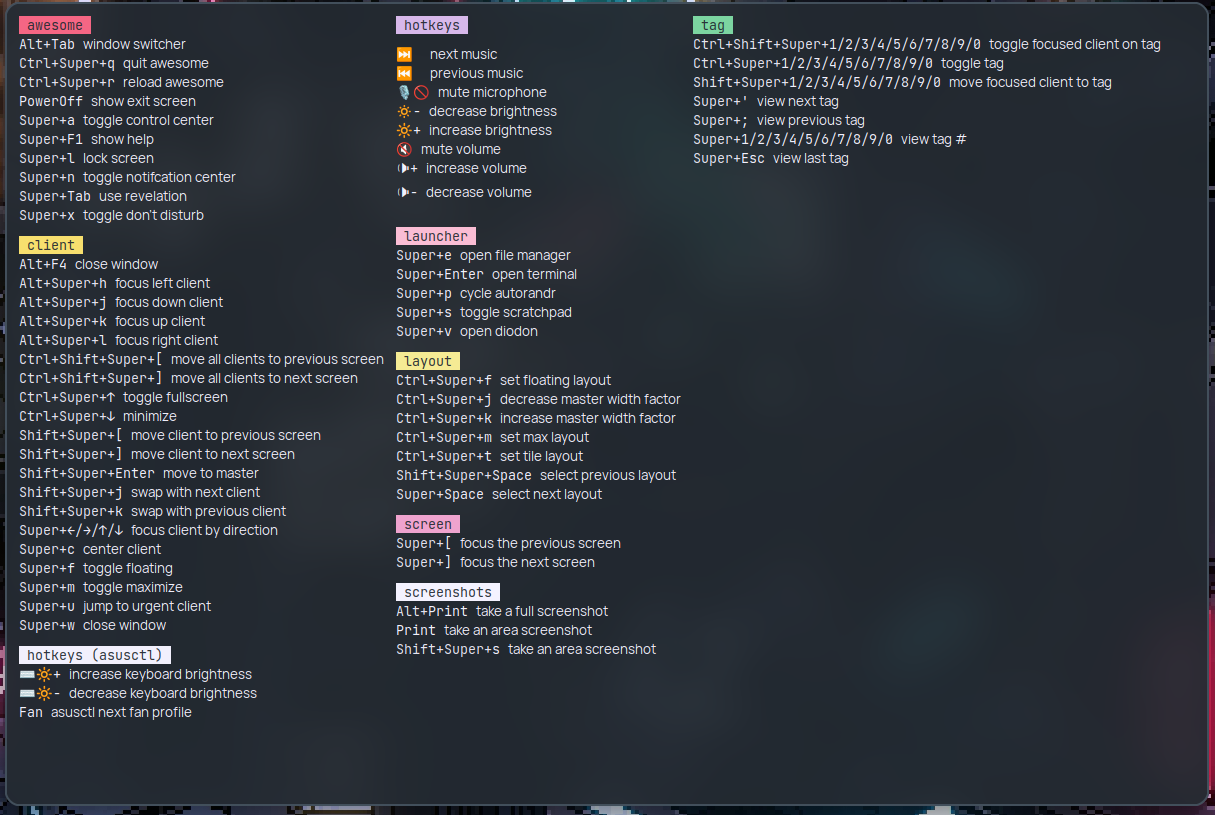
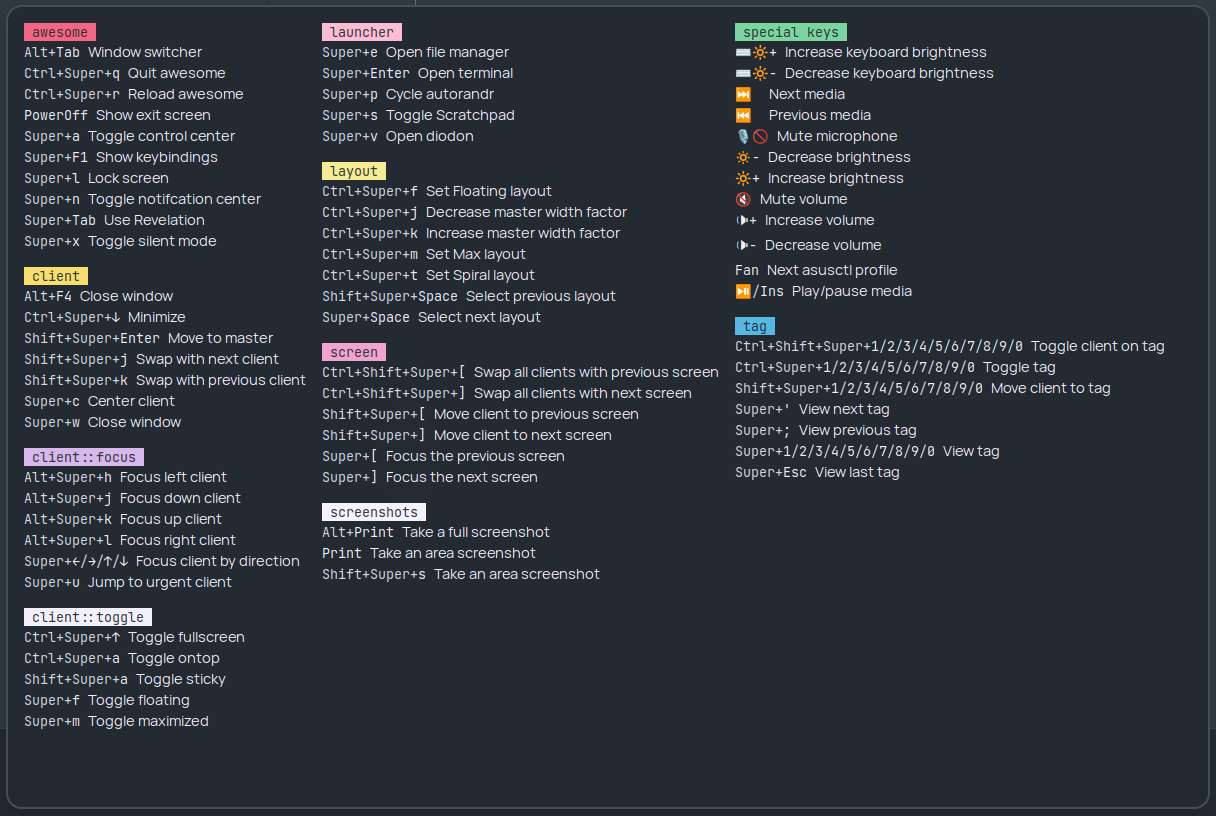
Update README + screenshots

Changed region(s): [[0.0, 0.0, 1.0, 0.9202], [0.0, 0.6748, 1.0, 1.0], [0.9745, 0.1227, 1.0, 0.3988]]

diff --git a/README.md b/README.md
@@ -12,12 +12,12 @@ My personal AwesomeWM configuration for work and daily tasks 👨🏼💻
 ---
 
 - 🐧 **OS:** EndeavourOS
-- 🌙 **Icons:** [Küyen](https://github.com/fabianalexisinostroza/Kuyen-icons)
+- 🌙 **Icons:** [Küyen](https://gitlab.com/froodo_alexis/kuyen-icons)
 - 🔡 **Fonts**
   - Regular: [Manrope](https://www.gent.media/manrope)
   - Monospace: [JetBrains Mono Slashed](https://github.com/sharpjs/JetBrainsMonoSlashed#installation)
   - Icons: [Material Symbols Rounded](https://github.com/google/material-design-icons/tree/master/variablefont) and [jetbrains-mono-nerd](https://archlinux.org/packages/community/any/ttf-jetbrains-mono-nerd/)
-- ▶ Video wallpaper [here](https://moewalls.com/pixel-art/cyberpunk-city-pixel-live-wallpaper/)
+- ▶ Video wallpaper [here](https://mylivewallpapers.com/sci-fi/pixel-cyberpunk-metropolis-animated-wallpaper/)
 - 📄 Rest of .dotfiles [here](https://github.com/pablonoya/dotfiles)
 
 ### ✨ Features
@@ -47,7 +47,7 @@ Install dependencies
 pikaur -S awesome-git \
 acpi acpid acpi_call upower \
 pipewire pipewire-alsa pipewire-pulse playerctl pamixer jq \
-brightnessctl networkmanager  \
+brightnessctl networkmanager \
 
 # autostarted
 polkit-gnome blueman network-manager-applet redshift-minimal \
@@ -101,15 +101,15 @@ Set video paths, vertical video is optional and it's used on vertical screens.
 
 ```lua
 -- Video wallpaper
-videowallpaper_path = HOME .. "/videos/cyberpunk-city-pixel.mp4"
-videowallpaper_vertical_path = HOME .. "/videos/cyberpunk-city-pixel-vertical.mp4"
+videowallpaper_path = HOME .. "/videos/video-wallpaper.mp4"
+videowallpaper_vertical_path = HOME .. "/videos/video-wallpaper-vertical.mp4"
 ```
 
 #### Media controls with dominant colors
 
 1. Install my [dominantcolors script](https://github.com/pablonoya/dominantcolors) with pipx.
 
-```
+```sh
 pipx install git+https://github.com/pablonoya/dominantcolors.git
 ```
 
@@ -160,30 +160,23 @@ weather_api_key = "y0ur4p1k3yc0m35h3r3"
 
 ![media_in_control_center](./screenshots/media_popup.png)
 
-#### Combined taglist + tasklist
+#### Combined taglist + tasklist with [Bling](https://github.com/BlingCorp/bling) previews
 
-![taglist](https://user-images.githubusercontent.com/31524852/232517286-68d3a288-2f5d-4302-bfdb-663334f63f8a.png)
+|                  Tag preview                  |                 Client preview                  |
+| :-------------------------------------------: | :---------------------------------------------: |
+| ![tag_preview](./screenshots/tag_preview.png) | ![task_preview](./screenshots/task_preview.png) |
 
-With [Bling](https://github.com/BlingCorp/bling) previews!
-|Tag preview|Client preview|
-|:-:|:-:|
-|![tag_preview](https://user-images.githubusercontent.com/31524852/232521049-1462738a-d58b-473e-a0b8-1fbc72b345bc.png)|![task_preview](https://user-images.githubusercontent.com/31524852/232521057-253397c9-d0bc-499a-aa86-6de24ca126fe.png) |
+#### Lockscreen with word clock colorized by time of day and widgets
 
-#### Lockscreen with word clock colorized by time of day
-
-| Dawn                                                                                                            | Midday                                                                                                          | Night                                                                                                           |
-| --------------------------------------------------------------------------------------------------------------- | --------------------------------------------------------------------------------------------------------------- | --------------------------------------------------------------------------------------------------------------- |
-| ![image](https://user-images.githubusercontent.com/31524852/235561130-92c58246-4922-4343-bec6-2c00ef49fe3b.png) | ![image](https://user-images.githubusercontent.com/31524852/235560816-588185cc-9696-43c5-b4a6-3bd30a609116.png) | ![image](https://user-images.githubusercontent.com/31524852/235561459-06d1b240-0eb5-4724-9dc4-c14b965776cc.png) |
+| Morning                                                     | Evening                                                     |
+| ----------------------------------------------------------- | ----------------------------------------------------------- |
+| ![lockscreen_morning](./screenshots/lockscreen_morning.png) | ![lockscreen_evening](./screenshots/lockscreen_evening.png) |
 
 #### Some popups
 
-| Volume                                                                                                                 | Layout                                                                                                                 |
-| ---------------------------------------------------------------------------------------------------------------------- | ---------------------------------------------------------------------------------------------------------------------- |
-| ![popup_layout](https://user-images.githubusercontent.com/31524852/232397568-cfee5823-bb7a-4713-a85e-3ccff91fcad3.png) | ![popup_volume](https://user-images.githubusercontent.com/31524852/232397220-13c26fdc-1ff2-44de-ab4b-68bcbbd047e9.png) |
-
-| Mic on                              | Mic off                               |
-| ----------------------------------- | ------------------------------------- |
-| ![mic_on](./screenshots/mic_on.png) | ![mic_off](./screenshots/mic_off.png) |
+| Layout                                          | Brightness + Volume                                                                                               | Mic on/off                                                                |
+| ----------------------------------------------- | ----------------------------------------------------------------------------------------------------------------- | ------------------------------------------------------------------------- |
+| ![popup_layout](./screenshots/popup_layout.png) | ![popup_brightness](./screenshots/popup_brightness.png) <br/> ![popup_brightness](./screenshots/popup_volume.png) | ![mic_on](./screenshots/mic_on.png) ![mic_off](./screenshots/mic_off.png) |
 
 #### Keyboard shortcuts
 
@@ -191,13 +184,13 @@ With [Bling](https://github.com/BlingCorp/bling) previews!
 
 #### Exit screen
 
-![exit_screen](https://github.com/pablonoya/awesomewm-configuration/assets/31524852/d6b8bfe4-8677-4487-9f8c-cfcea42b61b1)
+![exit_screen](./screenshots/exit_screen.png)
 
-### 🤍 Acknowledgments
+### 💡 Acknowledgments
 
 ---
 
 - [rxyhn](https://github.com/rxyhn)
+- [elenapan](https://github.com/elenapan)
 - [Crylia](https://github.com/Crylia)
 - [Kasper24](https://github.com/Kasper24)
-- [elenapan](https://github.com/elenapan)
